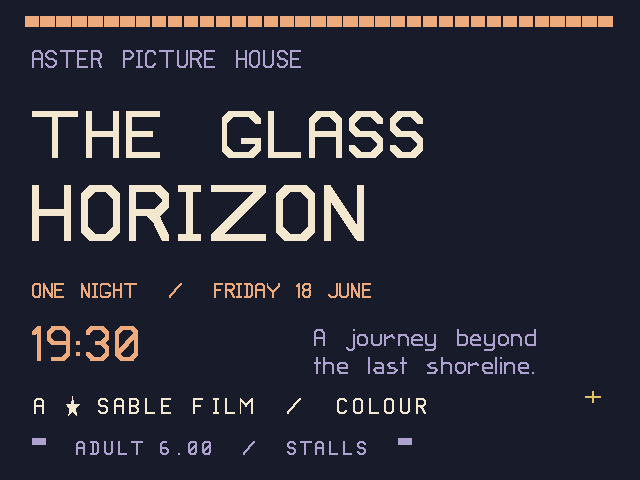
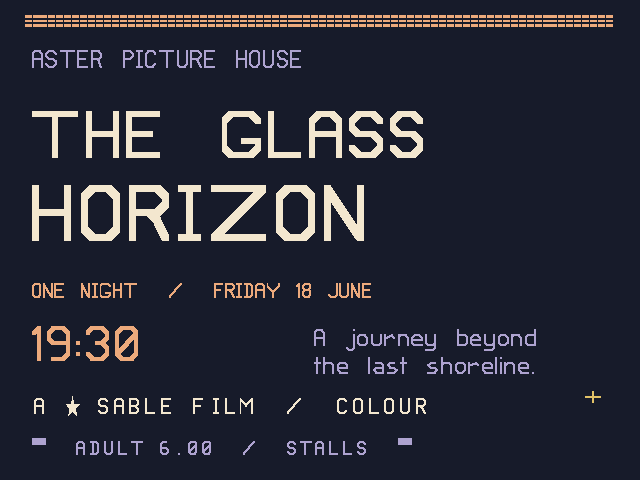
Bring the guide and reference up to date with the renderer
The pages still described the renderer before the conformance work:
SET & LINE as a connected line, no word wrap, no border, a tenth-field
mosaic gap, dashes three on and one off, and transmit macros stored.
They now say what the standard and the code do, give the reason for
everything left out, explain why local macros are safe and transmit
macros are not supported, and warn that drawing a definition in
nominal black clears it (section 6.2.3), which caught two sample pages.
The section 8 picture of page 119 is rendered again with the current
renderer.

Changed region(s): [[0.0312, 0.0312, 0.9688, 0.0625]]

diff --git a/docs/reference.html b/docs/reference.html
@@ -265,7 +265,7 @@ img { max-width: 100%; height: auto; image-rendering: pixelated; border: 1px sol
 <tr>
 <td><code>1C</code></td>
 <td>APS</td>
-<td>Cursor to a row and column, given by the next two bytes, each <code>20</code> plus the number, in character fields of the current size. <strong>Here:</strong> rows are counted upward from the bottom of the screen; this has not been checked against PP3.</td>
+<td>Cursor to a row and column, given by the next two bytes, each <code>20</code> plus the number, in character fields of the current size. Rows are counted upward from the bottom of the screen (section 6.1.2.4).</td>
 </tr>
 <tr>
 <td><code>1E</code></td>
@@ -308,7 +308,7 @@ img { max-width: 100%; height: auto; image-rendering: pixelated; border: 1px sol
 <td><code>82</code></td>
 <td><code>1B 42</code></td>
 <td>DEFT MACRO</td>
-<td>A transmit macro. <strong>Here:</strong> stored like any macro; nothing is transmitted.</td>
+<td>A transmit macro, which when called is not executed but sent to the host (section 6.2.2.3). <strong>Here:</strong> never sent and never executed: defining one deletes any macro of that name, and calling it does nothing. Pages reach NeoTeletext from many sources, and a page that could make a key send bytes upstream could make a key labelled one thing send another.</td>
 </tr>
 <tr>
 <td><code>83</code></td>
@@ -380,7 +380,7 @@ img { max-width: 100%; height: auto; image-rendering: pixelated; border: 1px sol
 <td><code>8E</code></td>
 <td><code>1B 4E</code></td>
 <td>BLINK START</td>
-<td>The current colour blinks to black (mode 2: to the background). <strong>Here:</strong> half a second each way.</td>
+<td>The current colour blinks to black (mode 2: to the background). In colour mode 0 the drawing colour first gets an unused entry of its own, so only what is drawn afterwards blinks (section 6.2.8.1). <strong>Here:</strong> half a second each way.</td>
 </tr>
 <tr>
 <td><code>8F</code></td>
@@ -392,7 +392,7 @@ img { max-width: 100%; height: auto; image-rendering: pixelated; border: 1px sol
 <td><code>90</code></td>
 <td><code>1B 50</code></td>
 <td>PROTECT</td>
-<td><strong>Here:</strong> no effect.</td>
+<td><strong>Here:</strong> no effect. A page takes no input: the viewer's keys and the channel's input path are NeoTeletext's, as for teletext pages.</td>
 </tr>
 <tr>
 <td><code>91</code>-<code>94</code></td>
@@ -404,7 +404,7 @@ img { max-width: 100%; height: auto; image-rendering: pixelated; border: 1px sol
 <td><code>95</code> <code>96</code></td>
 <td><code>1B 55</code> <code>56</code></td>
 <td>WORD WRAP ON, OFF</td>
-<td><strong>Here:</strong> recorded, not applied: lines break at the edge.</td>
+<td>A word that would cross the edge of the field moves whole to the next line (section 6.2.7.11). <strong>Here:</strong> words break at spaces only, not after hyphens or other special characters.</td>
 </tr>
 <tr>
 <td><code>97</code> <code>98</code></td>
@@ -422,7 +422,7 @@ img { max-width: 100%; height: auto; image-rendering: pixelated; border: 1px sol
 <td><code>9B</code>-<code>9D</code></td>
 <td><code>1B 5B</code>-<code>5D</code></td>
 <td>FLASH CURSOR, STEADY CURSOR, CURSOR OFF</td>
-<td><strong>Here:</strong> no effect; no cursor is drawn.</td>
+<td><strong>Here:</strong> no effect; no cursor is drawn. A page takes no input, so there is no insertion point to show.</td>
 </tr>
 <tr>
 <td><code>9E</code></td>
@@ -434,7 +434,7 @@ img { max-width: 100%; height: auto; image-rendering: pixelated; border: 1px sol
 <td><code>9F</code></td>
 <td><code>1B 5F</code></td>
 <td>UNPROTECT</td>
-<td><strong>Here:</strong> no effect.</td>
+<td><strong>Here:</strong> no effect, for the same reason as PROTECT.</td>
 </tr>
 </tbody>
 </table>
@@ -478,7 +478,7 @@ byte 3: G0 R1 B0 G0 R1 B0 = 010010 -&gt; 52
 </tr>
 <tr>
 <td>b6 b5 b4</td>
-<td>Screen. <code>001</code> or <code>111</code>: clear to nominal black. <code>010</code>, <code>101</code> or <code>110</code>: clear to the current drawing colour. <code>011</code> and <code>100</code> concern the border only. <strong>Here:</strong> there is no border.</td>
+<td>Screen. <code>001</code> or <code>111</code>: clear to nominal black. <code>010</code>, <code>101</code> or <code>110</code>: clear to the current drawing colour. <code>011</code> and <code>100</code> concern the border only (Table 15). <strong>Here:</strong> the library reports the border's colour-map entry (<code>Terminal::border</code>); <code>naplps-render --border N</code> draws N pixels of it round the picture.</td>
 </tr>
 </tbody>
 </table>
@@ -500,7 +500,7 @@ byte 3: G0 R1 B0 G0 R1 B0 = 010010 -&gt; 52
 </tr>
 <tr>
 <td>b3</td>
-<td>Unprotected fields. <strong>Here:</strong> no effect.</td>
+<td>Unprotected fields. <strong>Here:</strong> no effect, since a page takes no input.</td>
 </tr>
 <tr>
 <td>b4</td>
@@ -614,7 +614,7 @@ byte 3: G0 R1 B0 G0 R1 B0 = 010010 -&gt; 52
 </tr>
 </tbody>
 </table>
-<p>Hatching lines are one pel wide and one pel apart. Dotted is one pel on, one off; dashed three on, one off; dot-dash three on, one off, one on, one off. Gaps leave what was there, or in colour mode 2 take the background colour. <strong>Here:</strong> a line is textured only if the pel has a size along it; with the default pel, lines are solid.</p>
+<p>Hatching lines are one pel wide and one pel apart. Dotted is one pel on, one off; dashed three on, three off; dot-dash three on, one off, one on, one off (Table 12). Outlined arcs and circles take the texture too. Gaps leave what was there, or in colour mode 2 take the background colour. A line whose pel has no size along it is solid (section 5.3.2.4.2), so after a RESET textured lines are solid until DOMAIN sets a pel.</p>
 <h3 id="point-24-27">POINT <code>24</code>-<code>27</code></h3>
 <table>
 <thead>
@@ -671,12 +671,12 @@ byte 3: G0 R1 B0 G0 R1 B0 = 010010 -&gt; 52
 <tr>
 <td><code>2A</code></td>
 <td>SET &amp; LINE (absolute)</td>
-<td>start point, then end points</td>
+<td>pairs of points: a line from the first of each pair to the second. A last point with no partner only moves the drawing point. Use POINT SET then LINE for a connected line.</td>
 </tr>
 <tr>
 <td><code>2B</code></td>
 <td>SET &amp; LINE (relative)</td>
-<td>start point, then steps</td>
+<td>pairs: a start point, then the step to the line's end; each further pair is a step to a new start and a step to its end. A last step with no partner only moves the drawing point.</td>
 </tr>
 </tbody>
 </table>
@@ -1054,7 +1054,7 @@ byte 3: G0 R1 B0 G0 R1 B0 = 010010 -&gt; 52
 </tr>
 </tbody>
 </table>
-<p><code>20</code> is empty, <code>7F</code> full. Mosaics take the text size, colour and rotation. While underline is on they are <strong>separated</strong>: each cell is drawn slightly smaller, leaving a gap. <strong>Here:</strong> the gap is a tenth of the field rather than one pel.</p>
+<p><code>20</code> is empty, <code>7F</code> full. Mosaics take the text size, colour and rotation. While underline is on they are <strong>separated</strong>: each cell loses one pel from its right and top edges, keeping its lower left corner (section 5.4).</p>
 <h2 id="macros">Macros</h2>
 <p><code>DEF MACRO</code>, a name byte <code>20</code>-<code>7F</code>, the body, <code>END</code>. The body is recorded, not executed; <code>DEFP MACRO</code> records and executes. The name is the character that will invoke the macro from the macro set.</p>
 <ul>
@@ -1065,12 +1065,14 @@ byte 3: G0 R1 B0 G0 R1 B0 = 010010 -&gt; 52
 <li>CAN (<code>18</code>) ends every macro being executed.</li>
 <li>RESET byte 2 b5 deletes all macros.</li>
 </ul>
+<p>These are <strong>local</strong> macros: they replay bytes into the renderer and can do nothing a page could not do by sending those bytes itself. Their purpose is size: a symbol drawn many times costs its bytes once. <a href="#c1-controls">DEFT MACRO</a>, the transmit macro, is different and is not supported: see its entry.</p>
 <p><strong>Here:</strong> a body may be 4096 bytes and all bodies together 65,536; nesting stops at 16 levels; and processing stops, with <code>Event::LimitReached</code>, after 4,000,000 bytes have been processed in one call, expansion included.</p>
 <h2 id="drcs">DRCS</h2>
 <p><code>DEF DRCS</code>, a code byte <code>20</code>-<code>7F</code>, drawing, <code>END</code>. While the definition is open, every PDI and character draws into the character's bitmap instead of the display.</p>
 <ul>
 <li>The bitmap has the shape of the character field at the time DEF DRCS is received. Coordinates inside it run from (0, 0) at its lower left, with the field's <strong>longer side as 1</strong>: a 1/16 by 1/16 field is the square (0, 0) to (1, 1); a default field, taller than wide, is 0.64 wide and 1 high.</li>
 <li>Only which pels are drawn is kept, not their colour. When used, the character is drawn in the current colour.</li>
+<li>Drawing in <strong>nominal black</strong> (entry 0) clears the pels it covers instead of setting them (section 6.2.3). Select a non-zero entry before drawing a definition; the same applies to DEF TEXTURE. CS inside a definition clears its bitmap.</li>
 <li>The drawing point is at (0, 0) when the definition begins and afterwards.</li>
 <li>A DEF DRCS received while a DRCS definition is open ends it and begins the <strong>next code</strong> (after <code>7F</code>, <code>20</code>), with no code byte: consecutive characters need only one DEF DRCS each between their drawings.</li>
 <li>An undefined DRCS character is a space.</li>
@@ -1215,36 +1217,28 @@ let colours = terminal.palette().at(0);               // the colour map, blinks 
 </thead>
 <tbody>
 <tr>
-<td>Word wrap (<code>1B 55</code>)</td>
-<td>Recorded; lines break at the edge, not between words.</td>
+<td>Word wrap after a hyphen or other special character</td>
+<td>Words break at spaces only. Section 6.2.7.11 also allows a break after embedded special characters; not done yet.</td>
 </tr>
 <tr>
 <td>Cursor display and styles</td>
-<td>No cursor is drawn.</td>
+<td>No cursor is drawn. Pages take no input, so there is nothing for a cursor to mark.</td>
 </tr>
 <tr>
 <td>Unprotected fields, PROTECT, UNPROTECT, DEFT transmit macros</td>
-<td>Not recorded or transmitted: pages cannot take input.</td>
+<td>Not recorded, not executed, never transmitted. Pages come from many sources: a page that could make a key send bytes upstream could disguise what the key sends, redefine a key another page tells the viewer to press, or inject commands upstream. Input belongs to NeoTeletext's own keys and channel input, as for teletext pages.</td>
 </tr>
 <tr>
 <td>Three-dimensional coordinates</td>
-<td>z is read and discarded.</td>
+<td>z is read and discarded. The screen is flat and the standard defines no projection for z.</td>
 </tr>
 <tr>
 <td>Arcs of more than three points</td>
-<td>Drawn as straight segments, not a spline.</td>
+<td>Drawn as straight segments, not a spline. The standard does not define the spline's shape, and straight segments are allowed.</td>
 </tr>
 <tr>
 <td>Proportional spacing on vertical paths</td>
-<td>Fixed spacing is used.</td>
-</tr>
-<tr>
-<td>Line textures with the default pel</td>
-<td>Drawn solid; set a pel with DOMAIN.</td>
-</tr>
-<tr>
-<td>Separated mosaics</td>
-<td>The gap is a tenth of the field, not one pel.</td>
+<td>Fixed spacing is used. The standard leaves the proportional spacing method to the implementation, and its glyph widths only make sense across a line.</td>
 </tr>
 <tr>
 <td>Text at sizes far from the default, and rotated</td>
@@ -1252,15 +1246,11 @@ let colours = terminal.palette().at(0);               // the colour map, blinks 
 </tr>
 <tr>
 <td>WAIT</td>
-<td>Reported to the caller; <code>naplps-render</code> does not pause or stop at it.</td>
-</tr>
-<tr>
-<td>Border colour</td>
-<td>There is no border.</td>
+<td>Reported to the caller, which owns the clock; the library never sleeps. <code>naplps-render</code> draws the whole page, or stops at the Nth WAIT with <code>--stage N</code>.</td>
 </tr>
 <tr>
 <td>The transparent colour</td>
-<td>Black.</td>
+<td>Black, which the standard allows. A transparent colour would need a picture behind the page, and NeoTeletext has none.</td>
 </tr>
 </tbody>
 </table>

diff --git a/docs/guide.html b/docs/guide.html
@@ -147,8 +147,9 @@ byte 3:  1  010 110  = 56
 <pre><code class="language-python">page = SO + reset_all()
 # A filled rectangle: lower left corner, then width and height.
 page += select(BLUE) + pdi(SET_RECT_FILLED, xy(0.05, 0.45), xy(0.25, 0.25))
-# A line from point to point, then on to a third point.
-page += select(YELLOW) + pdi(SET_LINE_ABS, xy(0.38, 0.45), xy(0.50, 0.70), xy(0.62, 0.45))
+# A line from point to point, then on to a third point: POINT SET, then LINE. (SET &amp; LINE
+# takes its points in pairs, one line from each pair.)
+page += select(YELLOW) + pdi(POINT_SET_ABS, xy(0.38, 0.45)) + pdi(LINE_ABS, xy(0.50, 0.70), xy(0.62, 0.45))
 # A filled circle: a point on it, then the step to the opposite point.
 page += select(RED) + pdi(SET_ARC_FILLED, xy(0.70, 0.575), xy(0.25, 0))
 # A filled polygon: first vertex, then the step to each following vertex.
@@ -162,7 +163,7 @@ page += select(WHITE) + pdi(SET_RECT_OUTLINED, xy(0.70, 0.08), xy(0.25, 0.28))
 <p>Things to know about each:</p>
 <ul>
 <li><strong>Rectangle</strong>: a corner, then a width and height, which may be negative. Afterwards the drawing point has moved across by the width, so repeated operands draw a row of rectangles: a bar chart is one opcode.</li>
-<li><strong>Line</strong>: <code>SET_LINE_ABS</code> takes points; <code>SET_LINE_REL</code> takes steps. More operands continue the line.</li>
+<li><strong>Line</strong>: <code>SET_LINE_ABS</code> takes points in <strong>pairs</strong>, one line per pair, and <code>SET_LINE_REL</code> takes a start and a step per line. For a connected line, set the start with <code>POINT_SET_ABS</code>, then send <code>LINE_ABS</code> (or <code>LINE_REL</code>) with every further point: each continues from the last.</li>
 <li><strong>Polygon</strong>: always <strong>steps</strong> between vertices, never absolute points, and closed for you. The helper's <code>polygon([...])</code> takes absolute points and works out the steps. At most 4096 vertices here; the standard promises 256.</li>
 <li><strong>Arc</strong>: three points define the circle the arc lies on: start, a point on the way, end. With only two points, the arc is the whole circle whose diameter they span, which is how <code>circle()</code> in the helper works. A <strong>filled arc</strong> fills the area between the arc and its chord. Circles are round: they are worked out on the unit screen, not in pixels.</li>
 <li><strong>Point</strong>: <code>POINT_SET_ABS</code> and <code>POINT_SET_REL</code> only move the drawing point. <code>POINT_ABS</code> and <code>POINT_REL</code> also draw a dot there.</li>
@@ -210,7 +211,7 @@ for pattern in range(4):
 </code></pre>
 <p><img alt="Four line textures, four fill patterns on squares, the same on circles" src="images/05-textures.png"></p>
 <p>The <strong>logical pel</strong> is NAPLPS's brush: a small rectangle stamped along every line. It is set by DOMAIN, the command that also sets operand lengths. With a pel of 1/256 the lines above are three pixels thick at 640 by 480, and the dots, dashes and hatching are measured in the same pel. A larger pel gives thicker lines and coarser hatching: a pel of 1/64 draws with a marker.</p>
-<p>After a RESET the pel is the smallest the display can show (one pixel), and <strong>line textures need a real pel</strong>: with the default, textured lines are drawn solid. Send a DOMAIN with a pel if you use them.</p>
+<p>After a RESET the pel has no size, and the standard says such lines are drawn solid (section 5.3.2.4.2): <strong>line textures need a real pel</strong>. A dot and its gap are one pel each, a dash and its gap three. Send a DOMAIN with a pel if you use them.</p>
 <p>Hatching leaves gaps, and what shows in the gaps is whatever was there before (in colour mode 2, the background colour). Hatch over a solid fill of a second colour for two-colour shading.</p>
 <p>Four more fill patterns, numbers 4 to 7, are yours to define: <a href="#11-your-own-characters">section 11</a>.</p>
 <h2 id="8-text">8. Text</h2>
@@ -246,7 +247,7 @@ page += text_at(0.04, 0.05, &quot; black on yellow, colour mode 2 &quot;)
 <p>Rotation turns the characters; path moves the cursor. Vertical text that reads upward needs both, as above. Rotation alone gives sideways letters marching to the right.</p>
 <p>The font is made of strokes, so it scales to any field size, and the stroke thickness grows with the field.</p>
 <p><strong>Proportional spacing</strong> closes up the gaps a fixed pitch leaves around narrow letters. Use it for anything that should read as typeset rather than as a terminal.</p>
-<p>Line breaks are yours to send: CR (<code>0D</code>) returns to the left edge and LF (<code>0A</code>) moves down a row, so <code>b"first\r\nsecond"</code> is two lines. A line that reaches the right edge continues on the next row, but breaks wherever it happens to be: <strong>this renderer does not word-wrap</strong>.</p>
+<p>Line breaks are yours to send: CR (<code>0D</code>) returns to the left edge and LF (<code>0A</code>) moves down a row, so <code>b"first\r\nsecond"</code> is two lines. A line that reaches the right edge continues on the next row, and by default breaks wherever it happens to be. <strong>Word wrap</strong> (<code>ESC 55</code>; <code>ESC 56</code> turns it off) moves a word that would cross the edge whole to the next line, breaking at spaces.</p>
 <p>Accented letters and symbols come from the supplementary set, one character at a time through SS2 (<code>19</code>). An accent is sent before its letter: <code>SS2 + b"\x42" + b"e"</code> is é. The whole set is pictured in the <a href="reference.html#the-supplementary-set">reference</a>.</p>
 <h3 id="8-text-pages">Ten pages of text</h3>
 <p>These ten pages from the <a href="../samples/README.md">sample collection</a> (set 5) use every text facility between them, each in a page with a real purpose. They are drawn here by this renderer at 640 by 480; their generators are in <code>samples/set-5/pages/</code>, and <code>samples/set-5/DESIGN.md</code> has a table of which page uses which facility.</p>
@@ -329,6 +330,7 @@ for index, (x, y) in enumerate(positions):
 <p>The star is written with <strong>relative</strong> opcodes (<code>POLY_FILLED</code> starts at the drawing point), so it appears wherever the drawing point is, in whatever colour is selected. That is the pattern for any reusable symbol: position, colour, invoke.</p>
 <p>Start the body with SO or SI. A macro replays bytes, not meanings: if the page is in text mode when you invoke a macro that assumes the PDI set, its opcodes come out as letters.</p>
 <p><code>DEFP_MACRO</code> defines a macro and runs it at the same time, which saves sending the first use twice. Macros may invoke other macros, sixteen deep.</p>
+<p>These are <strong>local</strong> macros, and they are safe: replaying one does nothing the page could not do by sending its bytes directly. The standard's other kind, the <strong>transmit</strong> macro (<code>DEFT_MACRO</code>), sends its bytes to the host when called. It is not supported: pages come from many sources, and one that could make a key send bytes upstream could disguise what a key does. Defining one deletes any macro of that name, and calling it does nothing.</p>
 <h2 id="11-your-own-characters">11. Your own characters</h2>
 <p>A <strong>DRCS</strong> character (dynamically redefinable character set) is a shape you draw once and then use as a letter: it follows the text size, colour, rotation, cursor and REPEAT like any character.</p>
 <pre><code class="language-python">page = SO + reset_all() + DRCS_INTO_G3 + select(RED)
@@ -342,6 +344,7 @@ for row in range(4):
 </code></pre>
 <p><img alt="Four rows of ten hearts, each row a different colour" src="images/09-drcs.png"></p>
 <p>Between <code>DEF_DRCS</code> and <code>END</code>, drawing goes into the character instead of onto the screen. You draw as if the character field were the whole screen: its longer side is the unit length, so a square field is the unit square, (0, 0) to (1, 1). The shape is kept as a one-colour bitmap and drawn in whatever colour is selected when you use it.</p>
+<p><strong>Draw definitions in any colour but nominal black.</strong> The colour you draw in is not kept, except that drawing in entry 0 clears what it covers instead of setting it (section 6.2.3). Select a non-zero entry before <code>DEF_DRCS</code> or <code>DEF_TEXTURE</code>, or the character or pattern comes out empty.</p>
 <p>Set the text size before you define: the character takes the shape of the current field.</p>
 <p><code>REPEAT</code> and a count (<code>ESC 46</code>, then one operand byte, up to 63) draws the last character again that many times. Ten hearts cost four bytes.</p>
 <p><strong>Your own fill patterns</strong> work the same way. <code>DEF_TEXTURE</code> and a name from <code>41</code> to <code>44</code> (A to D) records a drawing as fill pattern 4 to 7, tiled at the mask size that TEXTURE's second operand sets. Then <code>pdi(TEXTURE, fixed(4 &lt;&lt; 3))</code> fills with it:</p>
@@ -487,7 +490,7 @@ page += select(ink) + pdi(TEXT, fixed(0b110000, 0), xy(1 / 14, 1 / 9)) + text_at
 </tr>
 <tr>
 <td>Textured lines are solid</td>
-<td>The logical pel is at its default. Set one with DOMAIN (section 7).</td>
+<td>The logical pel is at its default, which has no size, so lines are solid as the standard says. Set one with DOMAIN (section 7).</td>
 </tr>
 <tr>
 <td>Text is blank</td>
@@ -495,7 +498,7 @@ page += select(ink) + pdi(TEXT, fixed(0b110000, 0), xy(1 / 14, 1 / 9)) + text_at
 </tr>
 <tr>
 <td>Text wraps in mid-word</td>
-<td>This renderer does not word-wrap. Send CR LF where lines should break.</td>
+<td>Word wrap is off after RESET. Send <code>ESC 55</code> to turn it on, or send CR LF where lines should break.</td>
 </tr>
 <tr>
 <td>Vertical text marches sideways</td>
